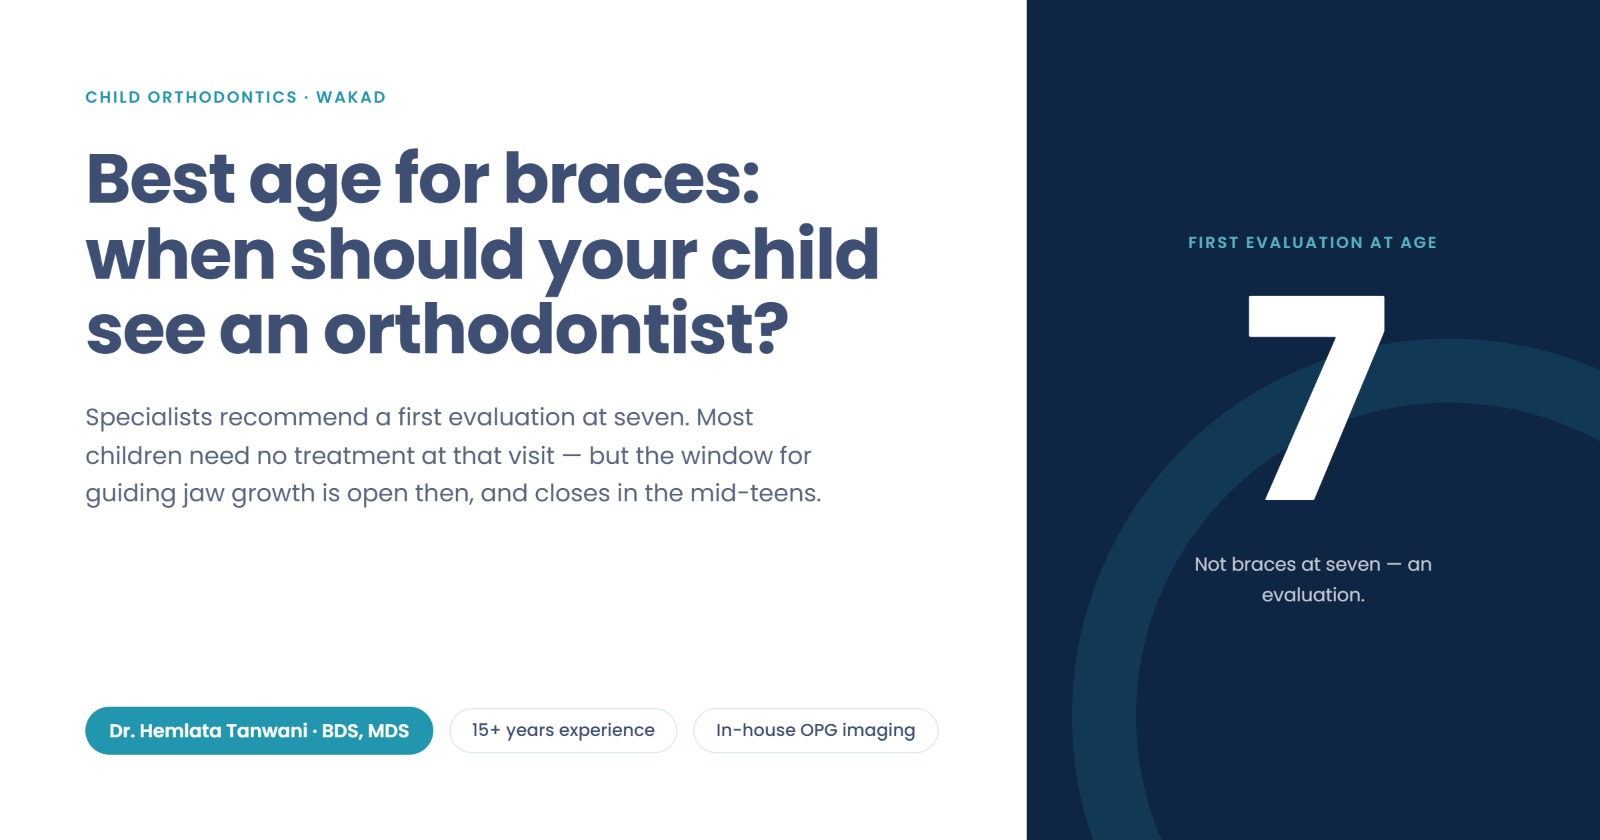
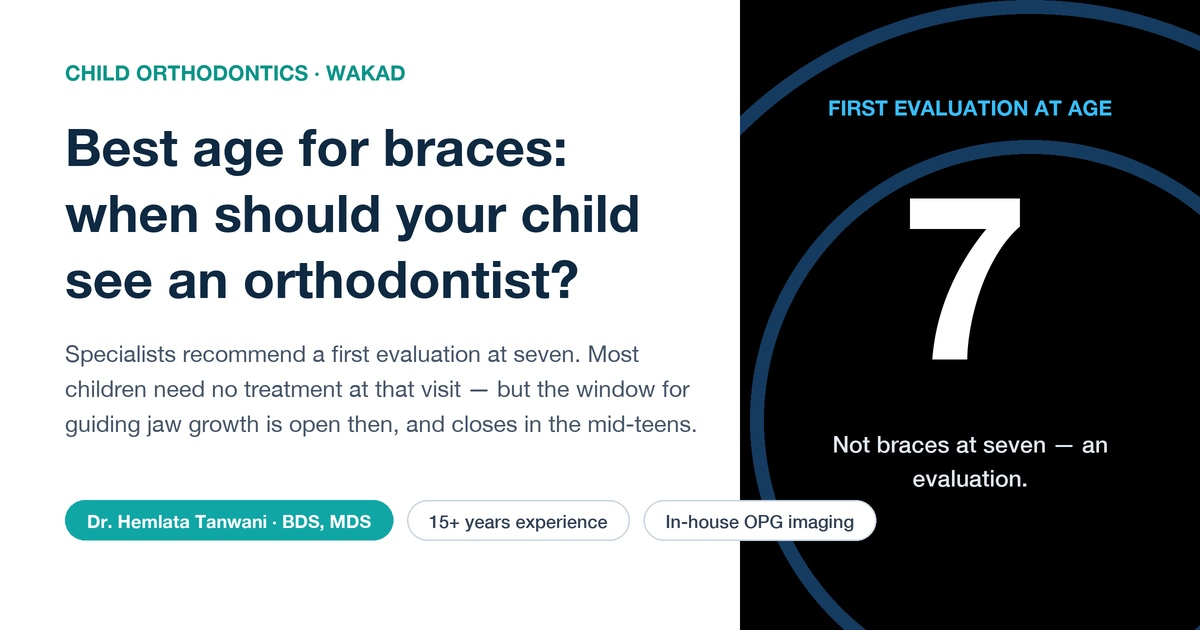
feat: add Blog to main navigation across all pages and remake ultra-crisp high-res cover image with larger readable fonts

diff --git a/blog/best-age-for-braces-kids-wakad.html b/blog/best-age-for-braces-kids-wakad.html
@@ -237,7 +237,8 @@
                     <li class="nav-item"><a class="nav-link fw-semibold" href="../orthodontist-wakad.html">Orthodontist Wakad</a></li>
                     <li class="nav-item"><a class="nav-link fw-semibold" href="../invisalign-wakad.html">Invisalign & Aligners</a></li>
                     <li class="nav-item"><a class="nav-link fw-semibold" href="../braces-wakad.html">Braces</a></li>
-                    <li class="nav-item"><a class="nav-link active fw-bold text-primary" href="../kids-braces-wakad.html">Kids Ortho</a></li>
+                    <li class="nav-item"><a class="nav-link fw-semibold" href="../kids-braces-wakad.html">Kids Ortho</a></li>
+                    <li class="nav-item"><a class="nav-link active fw-bold text-primary" href="index.html">Blog</a></li>
                     <li class="nav-item"><a class="nav-link fw-semibold" href="../about-dr-hemlata-tanwani.html">About Doctor</a></li>
                     <li class="nav-item"><a class="nav-link fw-semibold" href="../contact.html">Contact</a></li>
                 </ul>

diff --git a/blog/index.html b/blog/index.html
@@ -54,7 +54,7 @@
                     <li class="nav-item"><a class="nav-link fw-semibold" href="../invisalign-wakad.html">Invisalign & Aligners</a></li>
                     <li class="nav-item"><a class="nav-link fw-semibold" href="../braces-wakad.html">Braces</a></li>
                     <li class="nav-item"><a class="nav-link fw-semibold" href="../kids-braces-wakad.html">Kids Ortho</a></li>
-                    <li class="nav-item"><a class="nav-link active fw-bold text-primary" href="index.html">Blog & Guides</a></li>
+                    <li class="nav-item"><a class="nav-link active fw-bold text-primary" href="index.html">Blog</a></li>
                     <li class="nav-item"><a class="nav-link fw-semibold" href="../about-dr-hemlata-tanwani.html">About Doctor</a></li>
                     <li class="nav-item"><a class="nav-link fw-semibold" href="../contact.html">Contact</a></li>
                 </ul>

diff --git a/about-dr-hemlata-tanwani.html b/about-dr-hemlata-tanwani.html
@@ -43,6 +43,7 @@
                     <li class="nav-item"><a class="nav-link fw-semibold" href="invisalign-wakad.html">Invisalign & Aligners</a></li>
                     <li class="nav-item"><a class="nav-link fw-semibold" href="braces-wakad.html">Braces</a></li>
                     <li class="nav-item"><a class="nav-link fw-semibold" href="kids-braces-wakad.html">Kids Ortho</a></li>
+                    <li class="nav-item"><a class="nav-link fw-semibold" href="blog/">Blog</a></li>
                     <li class="nav-item"><a class="nav-link active fw-bold text-primary" href="about-dr-hemlata-tanwani.html">About Doctor</a></li>
                     <li class="nav-item"><a class="nav-link fw-semibold" href="contact.html">Contact</a></li>
                 </ul>

diff --git a/braces-wakad.html b/braces-wakad.html
@@ -43,6 +43,7 @@
                     <li class="nav-item"><a class="nav-link fw-semibold" href="invisalign-wakad.html">Invisalign & Aligners</a></li>
                     <li class="nav-item"><a class="nav-link active fw-bold text-primary" href="braces-wakad.html">Braces</a></li>
                     <li class="nav-item"><a class="nav-link fw-semibold" href="kids-braces-wakad.html">Kids Ortho</a></li>
+                    <li class="nav-item"><a class="nav-link fw-semibold" href="blog/">Blog</a></li>
                     <li class="nav-item"><a class="nav-link fw-semibold" href="about-dr-hemlata-tanwani.html">About Doctor</a></li>
                     <li class="nav-item"><a class="nav-link fw-semibold" href="contact.html">Contact</a></li>
                 </ul>

diff --git a/contact.html b/contact.html
@@ -42,6 +42,7 @@
                     <li class="nav-item"><a class="nav-link fw-semibold" href="invisalign-wakad.html">Invisalign & Aligners</a></li>
                     <li class="nav-item"><a class="nav-link fw-semibold" href="braces-wakad.html">Braces</a></li>
                     <li class="nav-item"><a class="nav-link fw-semibold" href="kids-braces-wakad.html">Kids Ortho</a></li>
+                    <li class="nav-item"><a class="nav-link fw-semibold" href="blog/">Blog</a></li>
                     <li class="nav-item"><a class="nav-link fw-semibold" href="about-dr-hemlata-tanwani.html">About Doctor</a></li>
                     <li class="nav-item"><a class="nav-link active fw-bold text-primary" href="contact.html">Contact</a></li>
                 </ul>

diff --git a/invisalign-wakad.html b/invisalign-wakad.html
@@ -69,6 +69,7 @@
                     <li class="nav-item"><a class="nav-link active fw-bold text-primary" href="invisalign-wakad.html">Invisalign & Aligners</a></li>
                     <li class="nav-item"><a class="nav-link fw-semibold" href="braces-wakad.html">Braces</a></li>
                     <li class="nav-item"><a class="nav-link fw-semibold" href="kids-braces-wakad.html">Kids Ortho</a></li>
+                    <li class="nav-item"><a class="nav-link fw-semibold" href="blog/">Blog</a></li>
                     <li class="nav-item"><a class="nav-link fw-semibold" href="about-dr-hemlata-tanwani.html">About Doctor</a></li>
                     <li class="nav-item"><a class="nav-link fw-semibold" href="contact.html">Contact</a></li>
                 </ul>

diff --git a/kids-braces-wakad.html b/kids-braces-wakad.html
@@ -43,6 +43,7 @@
                     <li class="nav-item"><a class="nav-link fw-semibold" href="invisalign-wakad.html">Invisalign & Aligners</a></li>
                     <li class="nav-item"><a class="nav-link fw-semibold" href="braces-wakad.html">Braces</a></li>
                     <li class="nav-item"><a class="nav-link active fw-bold text-primary" href="kids-braces-wakad.html">Kids Ortho</a></li>
+                    <li class="nav-item"><a class="nav-link fw-semibold" href="blog/">Blog</a></li>
                     <li class="nav-item"><a class="nav-link fw-semibold" href="about-dr-hemlata-tanwani.html">About Doctor</a></li>
                     <li class="nav-item"><a class="nav-link fw-semibold" href="contact.html">Contact</a></li>
                 </ul>

diff --git a/index.html b/index.html
@@ -100,6 +100,7 @@
                     <li class="nav-item"><a class="nav-link fw-semibold" href="invisalign-wakad.html">Invisalign & Aligners</a></li>
                     <li class="nav-item"><a class="nav-link fw-semibold" href="braces-wakad.html">Braces</a></li>
                     <li class="nav-item"><a class="nav-link fw-semibold" href="kids-braces-wakad.html">Kids Ortho</a></li>
+                    <li class="nav-item"><a class="nav-link fw-semibold" href="blog/">Blog</a></li>
                     <li class="nav-item"><a class="nav-link fw-semibold" href="about-dr-hemlata-tanwani.html">About Doctor</a></li>
                     <li class="nav-item"><a class="nav-link fw-semibold" href="contact.html">Contact</a></li>
                 </ul>

diff --git a/orthodontist-wakad.html b/orthodontist-wakad.html
@@ -77,6 +77,7 @@
                     <li class="nav-item"><a class="nav-link fw-semibold" href="invisalign-wakad.html">Invisalign & Aligners</a></li>
                     <li class="nav-item"><a class="nav-link fw-semibold" href="braces-wakad.html">Braces</a></li>
                     <li class="nav-item"><a class="nav-link fw-semibold" href="kids-braces-wakad.html">Kids Ortho</a></li>
+                    <li class="nav-item"><a class="nav-link fw-semibold" href="blog/">Blog</a></li>
                     <li class="nav-item"><a class="nav-link fw-semibold" href="about-dr-hemlata-tanwani.html">About Doctor</a></li>
                     <li class="nav-item"><a class="nav-link fw-semibold" href="contact.html">Contact</a></li>
                 </ul>
